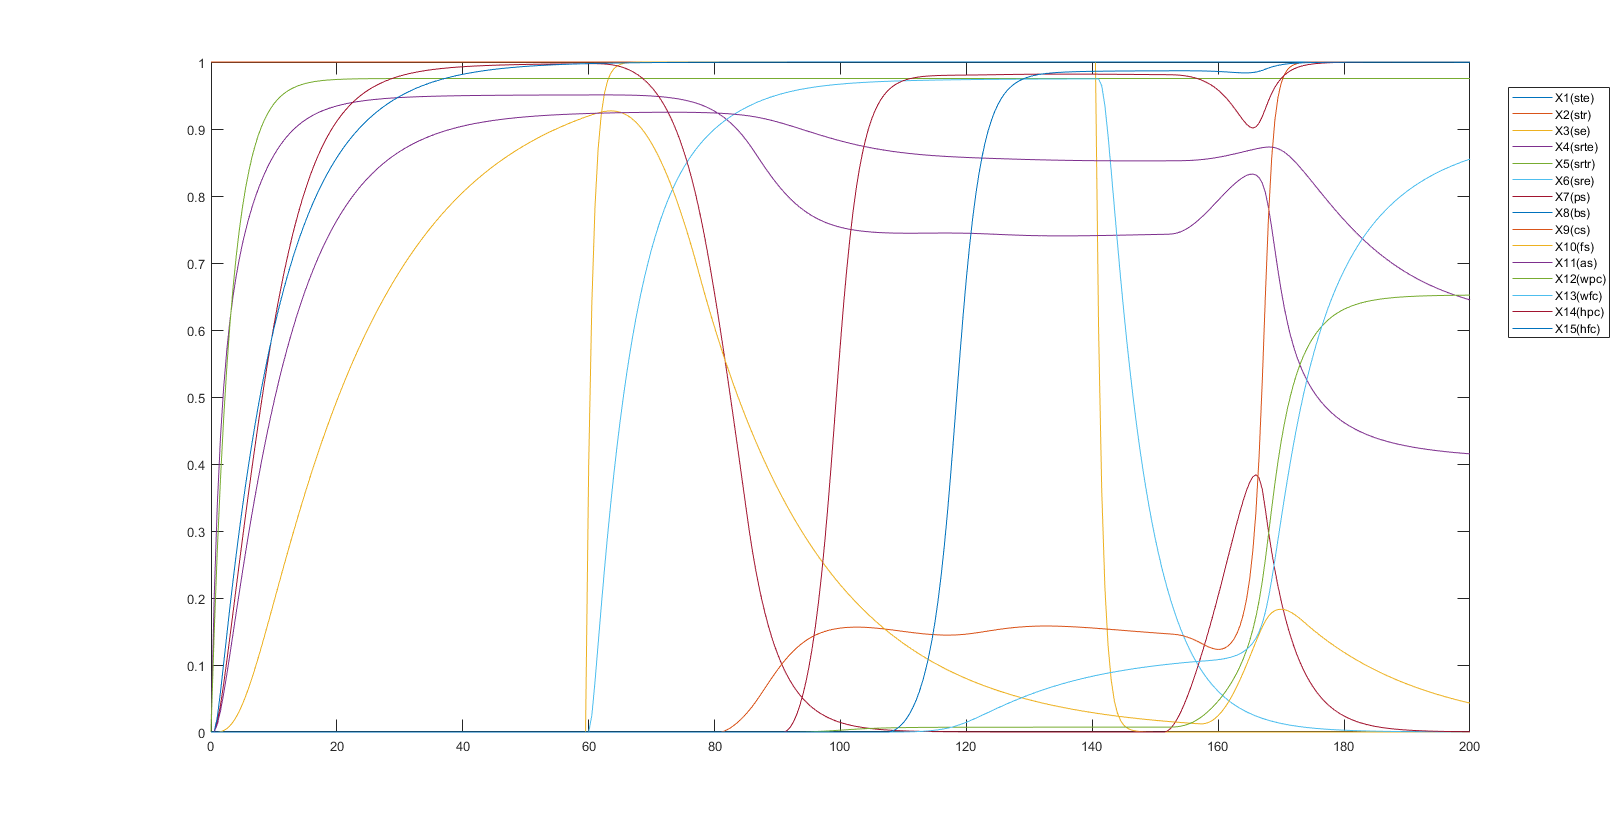
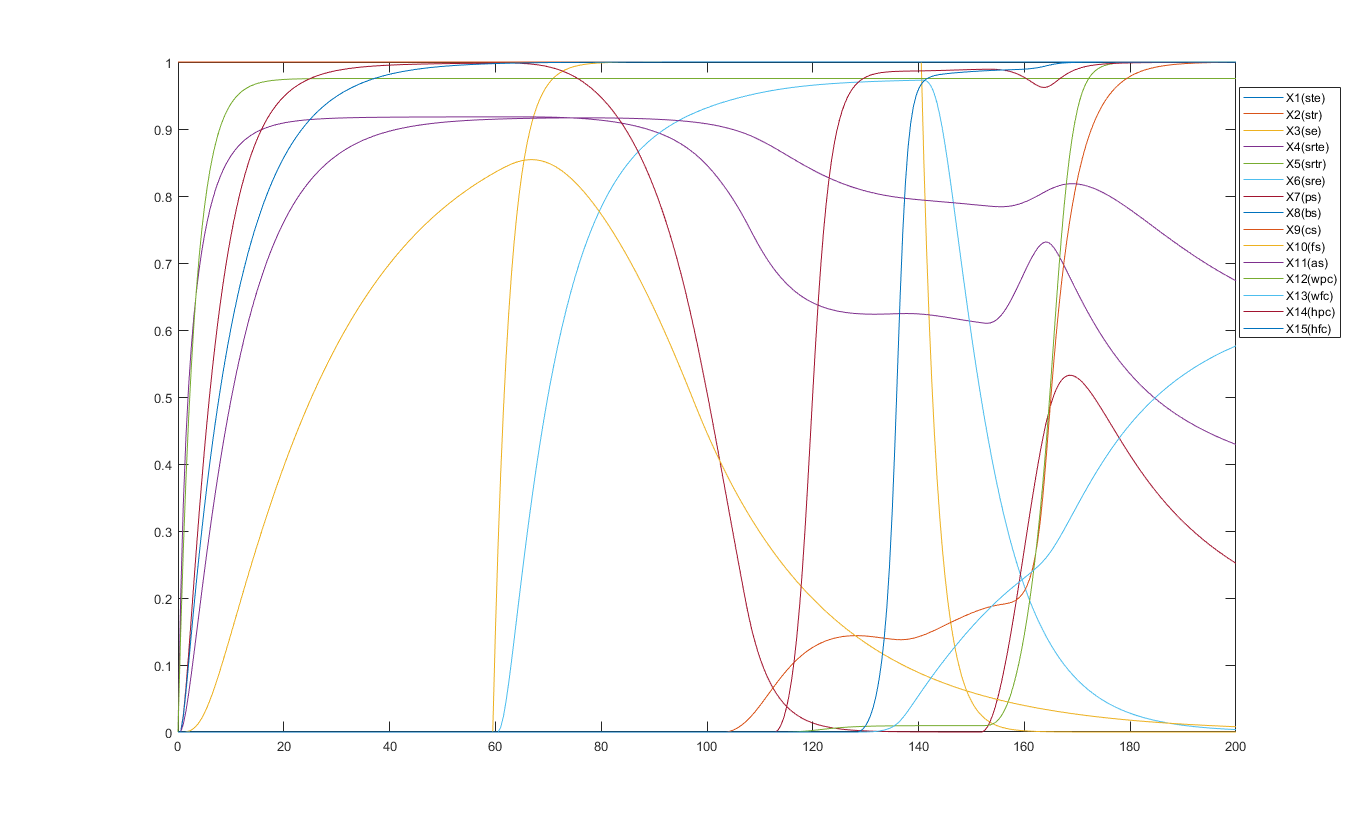
update

diff --git a/code.m b/code.m
@@ -89,16 +89,16 @@ mb=[1 NaN NaN NaN NaN   %\\X1 - ss te\\\%
 mcwv=[1 NaN NaN NaN NaN     %\\X1 - ss te\\\%
     1 NaN NaN NaN NaN       %\\X2 - ss tr\\\%
     1 NaN NaN NaN NaN       %\\X3 - ss emdr\\\%
-    1 0.8 -0.6 0.3 NaN      %\\X4 - srs te\\\%
+    1 0.8 -0.6 0.01 NaN      %\\X4 - srs te\\\%
     1 NaN NaN NaN NaN       %\\X5 - srs tr\\\%
     1 -0.1 -0.1 NaN NaN     %\\X6 - srs emdr\\\%
-    0.5 -1 -1 1.1 NaN   %\\X7 - ps b\\\%
+    0.8 -1 -0.2 1 NaN   %\\X7 - ps b\\\%
     0.8 0.8 1 -0.3 0.8      %\\X8 - bs te b\\\%
-    -0.2 NaN NaN 0.2 NaN    %\\X9 - cs b\\\%
-    -1 1.1 -0.1 NaN NaN   %\\X10 - fs b\\\%
+    -0.21 NaN NaN 0.19 NaN    %\\X9 - cs b\\\%
+    -0.65 1 -1 NaN NaN   %\\X10 - fs b\\\%
     0.6 0.1 NaN NaN NaN     %\\X11 - as te\\\%
-     1 0.5 1 NaN NaN           %\\X12 - W ps cb\\\%
-     1 0.5 1 NaN NaN           %\\X13 - W fs cb\\\%
+     1 1 1 NaN NaN           %\\X12 - W ps cb\\\%
+     1 1 1 NaN NaN           %\\X13 - W fs cb\\\%
     -1 1 0.1 1 NaN          %\\X14 - H ps cb\\\%
     -1 1 0.1 1 NaN]         %\\X15 - H fs cb\\\%
 
@@ -110,13 +110,13 @@ msv=[1    %\\X1 - ss te\\\%
     0.1    %\\X6 - srs emdr\\\%
     0.2     %\\X7 - ps b\\\%
     0.1     %\\X8 - bs te b\\\%
-    0.8     %\\X9 - cs b\\\%
-    0.05     %\\X10 - fs b\\\%
+    0.2     %\\X9 - cs b\\\%
+    0.04     %\\X10 - fs b\\\%
     0.1     %\\X11 - as te\\\%
     NaN     %\\X12 - W ps cb\\\%
     NaN     %\\X13 - W fs cb\\\%
     0.4    %\\X14 - H ps cb\\\%
-    0.4]    %\\X15 - H fs cb\\\%
+    0.8]    %\\X15 - H fs cb\\\%
 
 mcfwv=[1 NaN NaN NaN    %\\X1 - ss te\\\%
     1 NaN NaN NaN       %\\X2 - ss tr\\\%
@@ -157,11 +157,11 @@ mcfpv = cat(3,[1 1      %\\X1 - ss te\\\%
     5 0.2               %\\X7 - ps b\\\%
     5 0.2               %\\X8 - bs te b\\\%
     20 0.05              %\\X9 - cs b\\\%
-    5 0.2               %\\X10 - fs b\\\%
+    5 0.4               %\\X10 - fs b\\\%
     6 0.2               %\\X11 - as te\\\%
     NaN NaN
     NaN NaN
-    5 0.3                %\\X14 - H ps cb\\\%
+    5 0.2                %\\X14 - H ps cb\\\%
     5 0.2  ],[NaN NaN      %\\X15 - H fs cb\\\%
     NaN NaN
     NaN NaN
